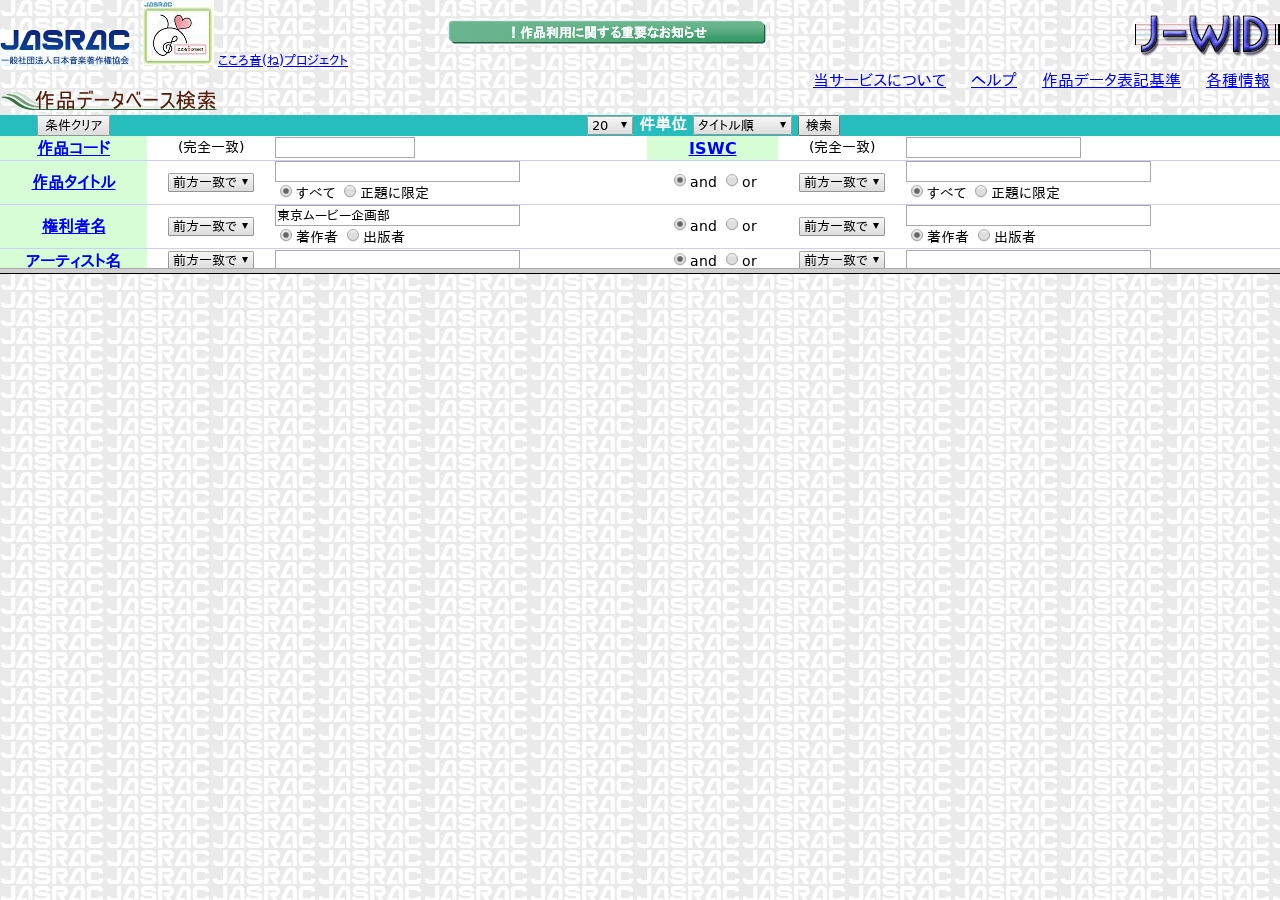
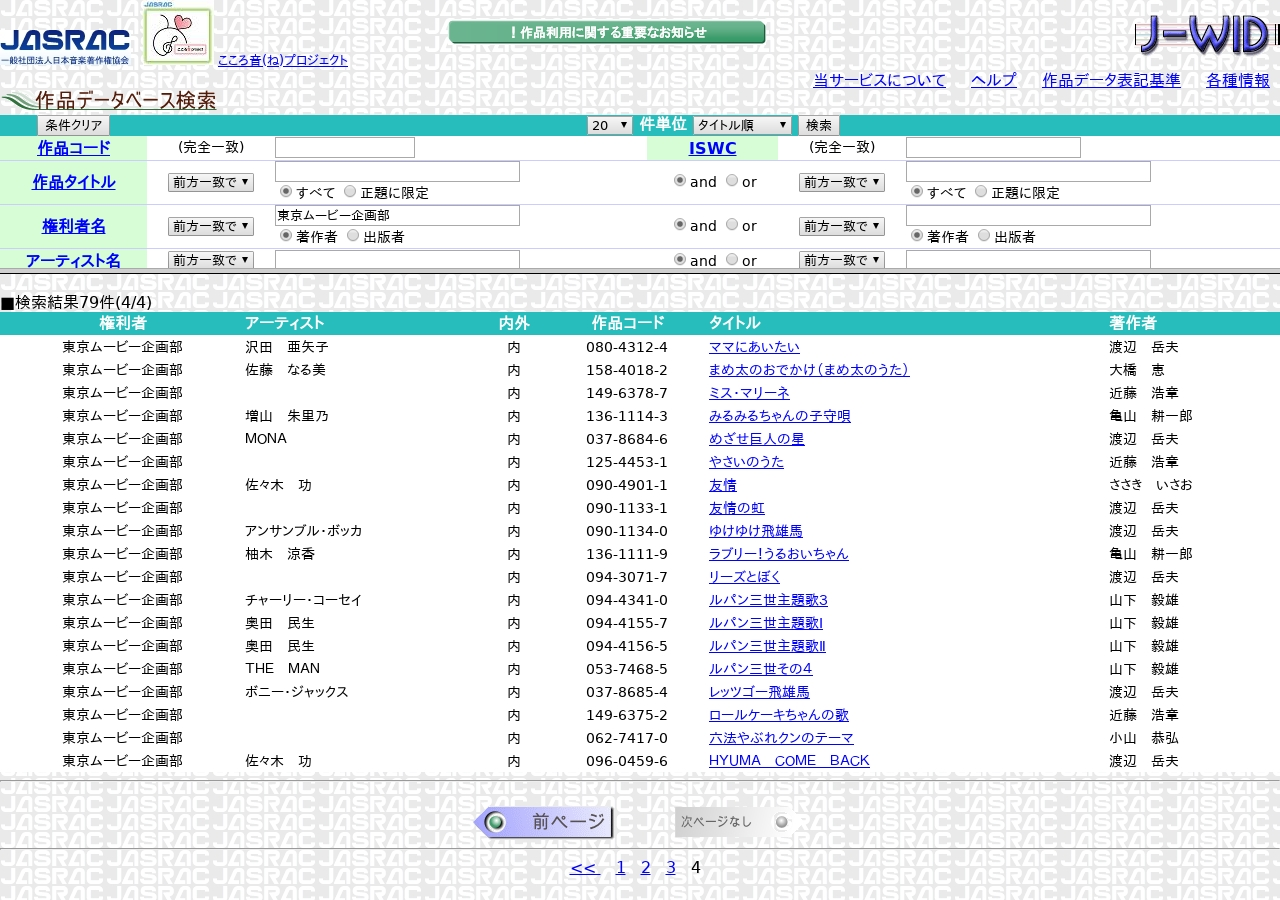
03/12/19

diff --git a/jas/arr.js b/jas/arr.js
@@ -1,6 +1,5 @@
-const key="mov"
-const key2="inp"
-//const key=require ("./key")
+const img="mov"
+const key=require ("../son/key")
 const puppeteer = require('puppeteer');
 
 async function main() {
@@ -37,28 +36,28 @@ await frame[1].click('input[name=CMD_SEARCH]');
 const url2="http://www2.jasrac.or.jp/eJwid/main.jsp?trxID=A00401-2"
 const url3="http://www2.jasrac.or.jp/eJwid/main.jsp?trxID=A00401-3"
 const pages=await browser.pages()
-// console.log(pages.length)
-// console.log(pages[0].url())
 await pages[0].goto(url3);
-// console.log(pages[0].url())
-// console.log(pages[1].url())
 
 const fra2=pages[0].frames();
-// console.log(fra2.length)
 
-const fra3 = await page.frames().find(f => f.name() === 'frame3');
-// console.log(fra3.url())
-
+ const fra3 = await page.frames().find(f => f.name() === 'frame3');
 
 // const val=await fra3.evaluate(()=>{
 // const arr=Array.from(document.querySelectorAll("td"))
 // return arr.map(el => el.innerText);
 // })
 
-//console.dir(val, {'maxArrayLength': null} );
+// console.dir(val, {'maxArrayLength': null} );
+// const son1=JSON.stringify(val)
+// const fs = require('fs');
 
+// fs.writeFile('./son/1.json', son1, function (err) {
+//   if (err) throw err;
+//   console.log('Saved!');
+// });
 
-const hand= await fra3.$x("//a[contains(text(), '4')]");
+for (var i=2;i<5;i++){
+const hand= await fra3.$x("//a[contains(text(), "+i+")]");
 
 if (hand.length > 0) {
 await hand[0].click();
@@ -66,15 +65,22 @@ await hand[0].click();
 throw new Error("Link not found");
 }
 
-await fra3.waitFor(1500);
+await fra3.waitFor(2500);
 const val=await fra3.evaluate(()=>{
 const arr=Array.from(document.querySelectorAll("td"))
 return arr.map(el => el.innerText);
 })
 
 console.dir(val, {'maxArrayLength': null} );
+const son1=JSON.stringify(val)
+const fs = require('fs');
+fs.writeFile('./son/'+i+'.json', son1, function (err) {
+  if (err) throw err;
+  console.log('Saved!');
+});
+}
 
-await page.screenshot({type:"jpeg",quality:100,path: 'img/'+"4"+'.jpg',fullPage:true});
+await page.screenshot({type:"jpeg",quality:100,path: 'img/'+img+'.jpg',fullPage:true});
 
 await browser.close();
 

diff --git a/hen/jpg.js b/hen/jpg.js
@@ -1,0 +1,62 @@
+const puppeteer = require('puppeteer');
+const key=require ("../son/key.json")
+
+console.log(key.key)
+const arr=require("./arr.json")
+
+console.log(arr[0])
+const dir =arr[0].slice(22)
+console.log(dir)
+
+async function main() {
+const browser = await puppeteer.launch({args: ['--no-sandbox']} );
+const page = await browser.newPage();
+const url=arr[0]
+
+await page.setViewport({ width: 1280, height: 900})
+
+await page.goto(url, {waitUntil: 'networkidle2',timeout: 0});
+console.log(page.url())
+console.log("goto")
+
+//// const gal= await page.$(".gallery")
+//// const tx= await page.evaluate(gal=> gal.textContent, gal);
+//// console.log(tx)
+//const inp="input[name=q]"
+//await page.waitForSelector(inp)
+//await page.focus(inp)
+//await page.type(inp,key.key)
+//await page.click("button[type=submit]")
+//console.log("cli")
+
+    //await page.screenshot({type:"jpeg",quality:10,path: 'img/'+dir+'.jpg',fullPage:true});
+//console.log("scr")
+
+//await page.waitForSelector("a[href]")
+//const ref = await page.evaluate(() => {
+//const anchors = document.querySelectorAll('a');
+//return [].map.call(anchors, a => a.href);
+//});
+
+
+////console.log(ref.valueOf())
+//const sea=/search/
+//let arr=[]
+
+//for (var i=0;i<ref.length;i++){
+//if(ref[i].search(sea)==-1){
+//arr.push(ref[i])
+//}
+//}
+////console.log(arr)
+//const arr2=arr.slice(17)
+//console.log("arr2")
+//console.log(arr2)
+
+//await page.screenshot({type:"jpeg",quality:10,path: 'img/'+key.key+'.jpg',fullPage:true});
+
+//await browser.close();
+
+};
+
+main();

diff --git a/jas/mov.js b/jas/mov.js
@@ -1,6 +1,6 @@
-const key="mov"
-const key2="inp"
-//const key=require ("./key")
+// const key="mov"
+// const key2="inp"
+const key=require ("../son/key")
 const puppeteer = require('puppeteer');
 
 async function main() {
@@ -32,10 +32,9 @@ console.log(frame[i].name())
 }
 console.log(frame[1].name())
 
-const hint="東京ムービー企画部"
 await frame[1].waitForSelector("input[name=IN_KEN_NAME1]")
 await frame[1].focus("input[name=IN_KEN_NAME1]")
-await frame[1].type("input[name=IN_KEN_NAME1]",hint)
+await frame[1].type("input[name=IN_KEN_NAME1]",key.key)
 
 await frame[1].click('input[name=CMD_SEARCH]');
 
@@ -57,7 +56,7 @@ return [].map.call(anchors, a => a.href);
 })
 console.log(hrefs)
 
-await page.screenshot({type:"jpeg",quality:100,path: 'img/'+key+'.jpg',fullPage:true});
+await page.screenshot({type:"jpeg",quality:100,path: 'img/'+"tyo"+'.jpg',fullPage:true});
 
 await browser.close();
 

diff --git a/jas/ins.js b/jas/ins.js
@@ -2,14 +2,15 @@ var db=require("songdb")
 var arr=[]
 
 for(var i=1;i<5;i++){
-arr[i]=require("../htm/arr"+i+".js")
+    arr[i]=require("../son/"+i+".json")
 var len=[]
 console.log("=====")
 console.log(arr[i].length)
 
- for(var j=0;j<arr[i].length/6;j++){
- var num=j*6
- console.log(num)
-db.insSong(arr[i][num],arr[i][num+1],arr[i][num+2],arr[i][num+3],arr[i][num+4],arr[i][num+5])
+for(var j=0;j<arr[i].length/6;j++){
+var num=j*6
+console.log(num)
+    db.insSong(arr[i][num],arr[i][num+1],arr[i][num+2],arr[i][num+3],arr[i][num+4],
+        arr[i][num+5])
 }
 }

diff --git a/hen/get.js b/hen/get.js
@@ -1,0 +1,17 @@
+var wget=require("node-wget")
+var arr=require("./arr.json")
+var dir =arr[0].slice(22)
+
+console.log(dir)
+
+const makeDir = require('make-dir');
+
+(async () => {
+    const path = await makeDir('img/'+dir);
+    console.log(path);
+})();
+
+for (var i=0;i<20;i++){
+    wget({url:arr[0]+"/g/"+i+".jpg",dest:"img/"+dir})
+
+}

diff --git a/jas/sel.js b/jas/sel.js
@@ -3,6 +3,6 @@ var arr=require("../htm/arr.js")
 
 //console.log(arr)
 
-var all=db.selAll()
+var all=db.allSong()
 console.log(all)
 

diff --git a/jas/get.js b/jas/get.js
@@ -1,0 +1,3 @@
+var son=require("../son/1.json")
+
+console.log(son.length)
